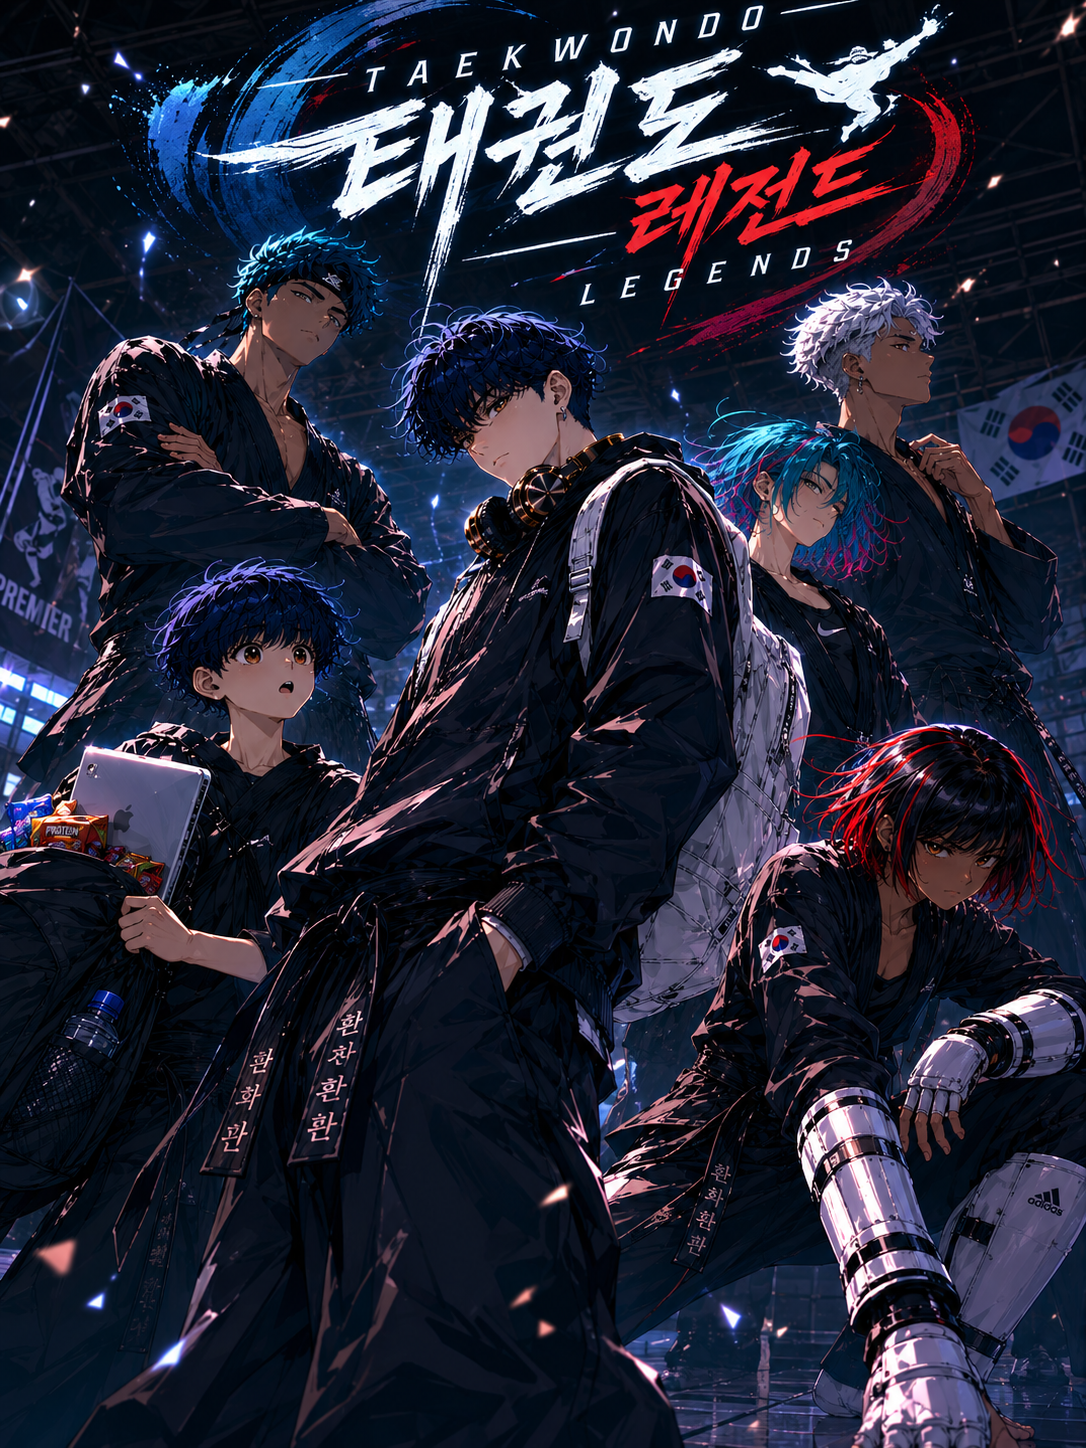
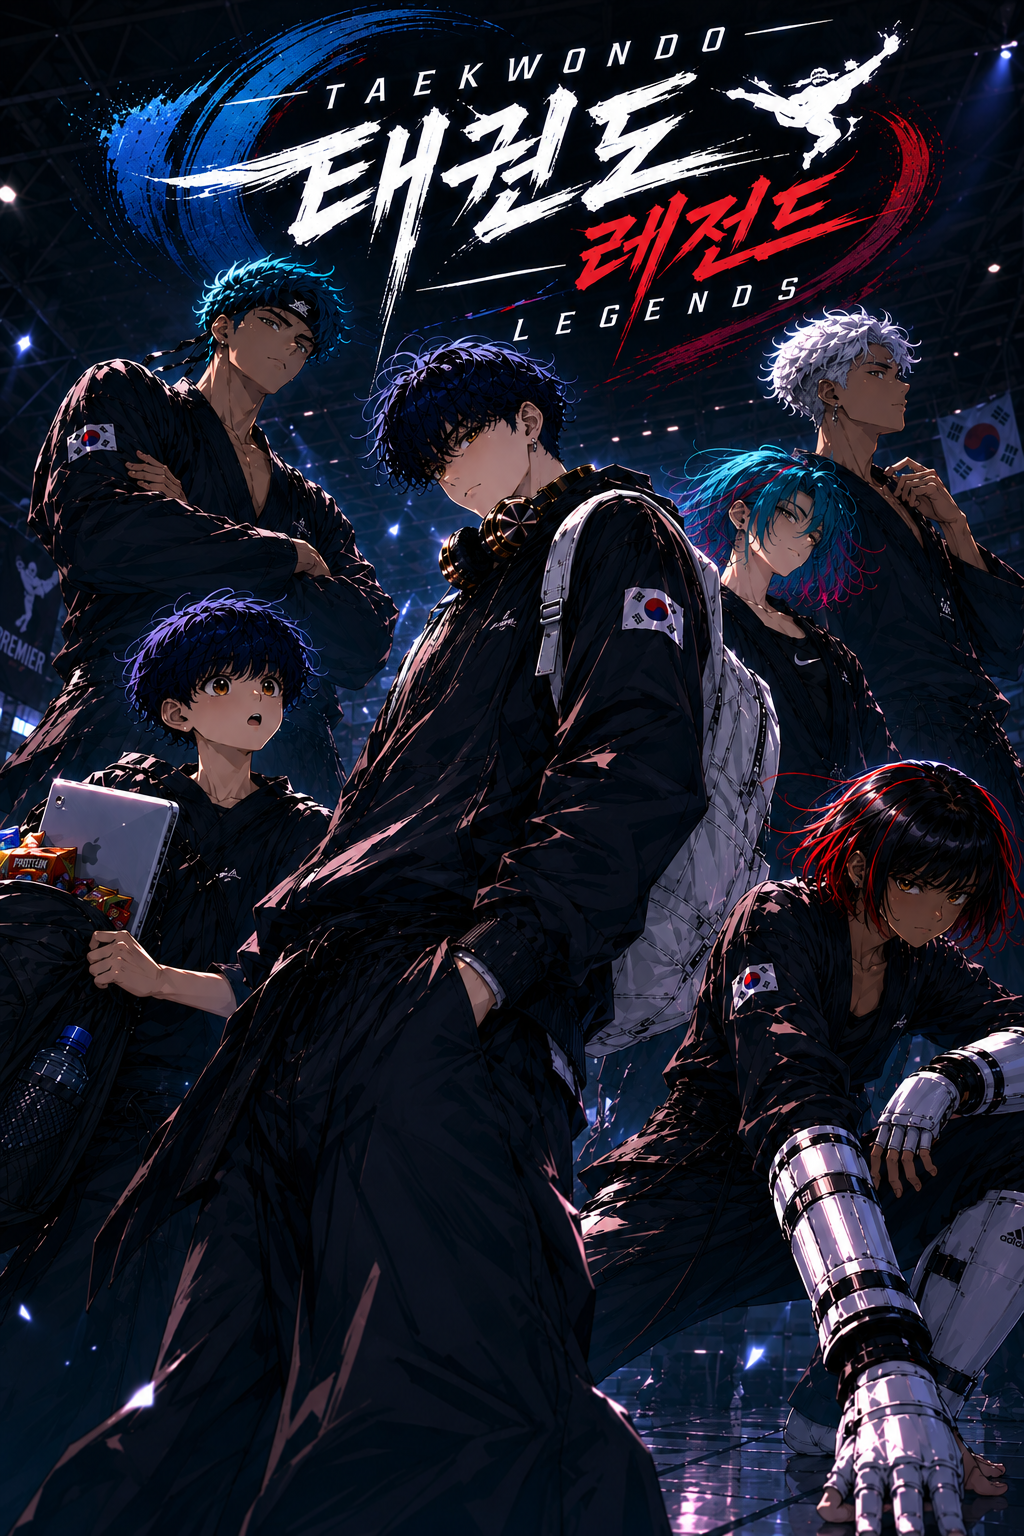
Update hero title graphic and refresh cache bust for GitHub Pages.
Deploy the latest title-graphic.png so browsers load the new asset on the live site.

diff --git a/index.html b/index.html
@@ -35,7 +35,7 @@
         <h1 class="hero-title hero-title--graphic">
           <img
             class="hero-title-graphic"
-            src="assets/images/title-graphic.png?v=1781822094"
+            src="assets/images/title-graphic.png?v=1781822325"
             alt="TAEKWONDO 태권도 레전드 LEGENDS"
             width="900"
             height="450"